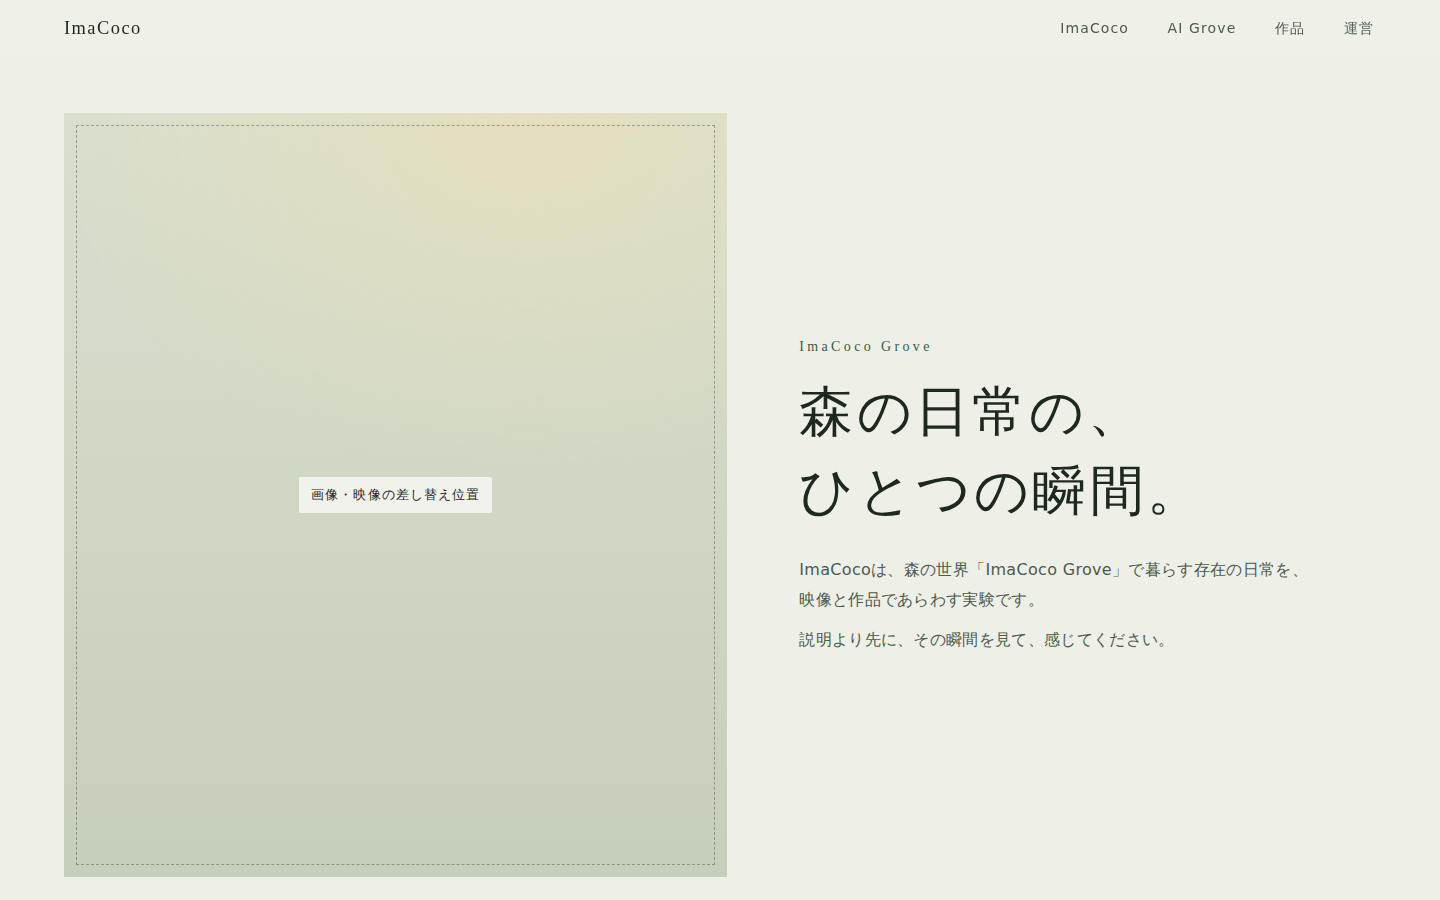
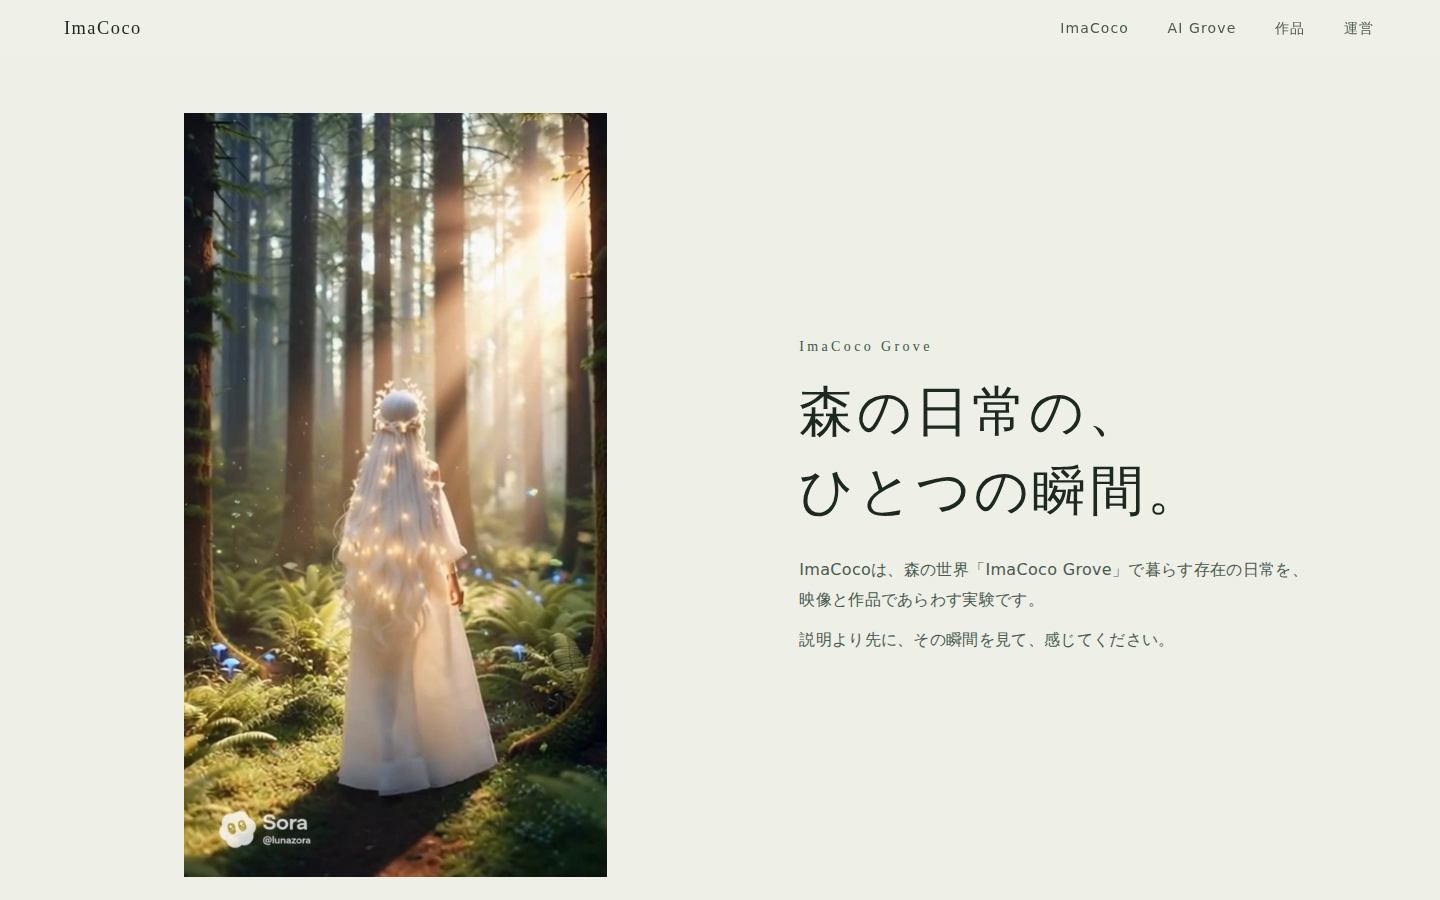
Use provisional hero image for ImaCoco Grove entrance
Show hero images and video uncropped so the whole frame stays visible.

Claude-Session: https://claude.ai/code/session_017bcMSHxEKTFhhpkpED1EZG

diff --git a/css/style.css b/css/style.css
@@ -269,12 +269,12 @@ main:focus { outline: none; }
   margin: 0 auto;
 }
 
+/* 画像・映像は切り取らず全体を見せる（枠だけ高さを抑える） */
 .hero__media img,
-.hero__media video,
+.hero__media video { width: 100%; }
 .hero__media .placeholder {
   width: 100%;
   max-height: 72svh;
-  object-fit: cover;
 }
 
 .hero__text {
@@ -312,7 +312,12 @@ main:focus { outline: none; }
     padding: clamp(24px, 4vw, 56px) var(--gutter) clamp(64px, 8vw, 120px);
   }
   .hero__media img,
-  .hero__media video,
+  .hero__media video {
+    width: auto;
+    max-width: 100%;
+    max-height: calc(100svh - var(--header-h) - 80px);
+    margin-inline: auto;
+  }
   .hero__media .placeholder { max-height: calc(100svh - var(--header-h) - 80px); }
   .hero__text { padding: 0; }
   .hero__title { font-size: clamp(2rem, 3.8vw, 3.4rem); }

diff --git a/content/ja.js b/content/ja.js
@@ -41,7 +41,14 @@ window.IMACOCO_CONTENT = {
      * media: { type: "video", src: "assets/hero.mp4", poster: "assets/hero-poster.jpg",
      *          alt: "…", width: 1080, height: 1350, autoplay: true }
      */
-    media: null
+    // 【仮画像】2026-10-02 みちこ決定。正式素材が決まったら差し替え
+    media: {
+      type: "image",
+      src: "assets/hero.jpg",
+      alt: "朝の光が差し込む針葉樹の森で、白い衣と光の粒をまとった長い白い髪の存在が、後ろ姿で森の奥を見ている。",
+      width: 1179,
+      height: 2126
+    }
   },
 
   // 2. AI Grove（ImaCoco Groveとは別の作品）
